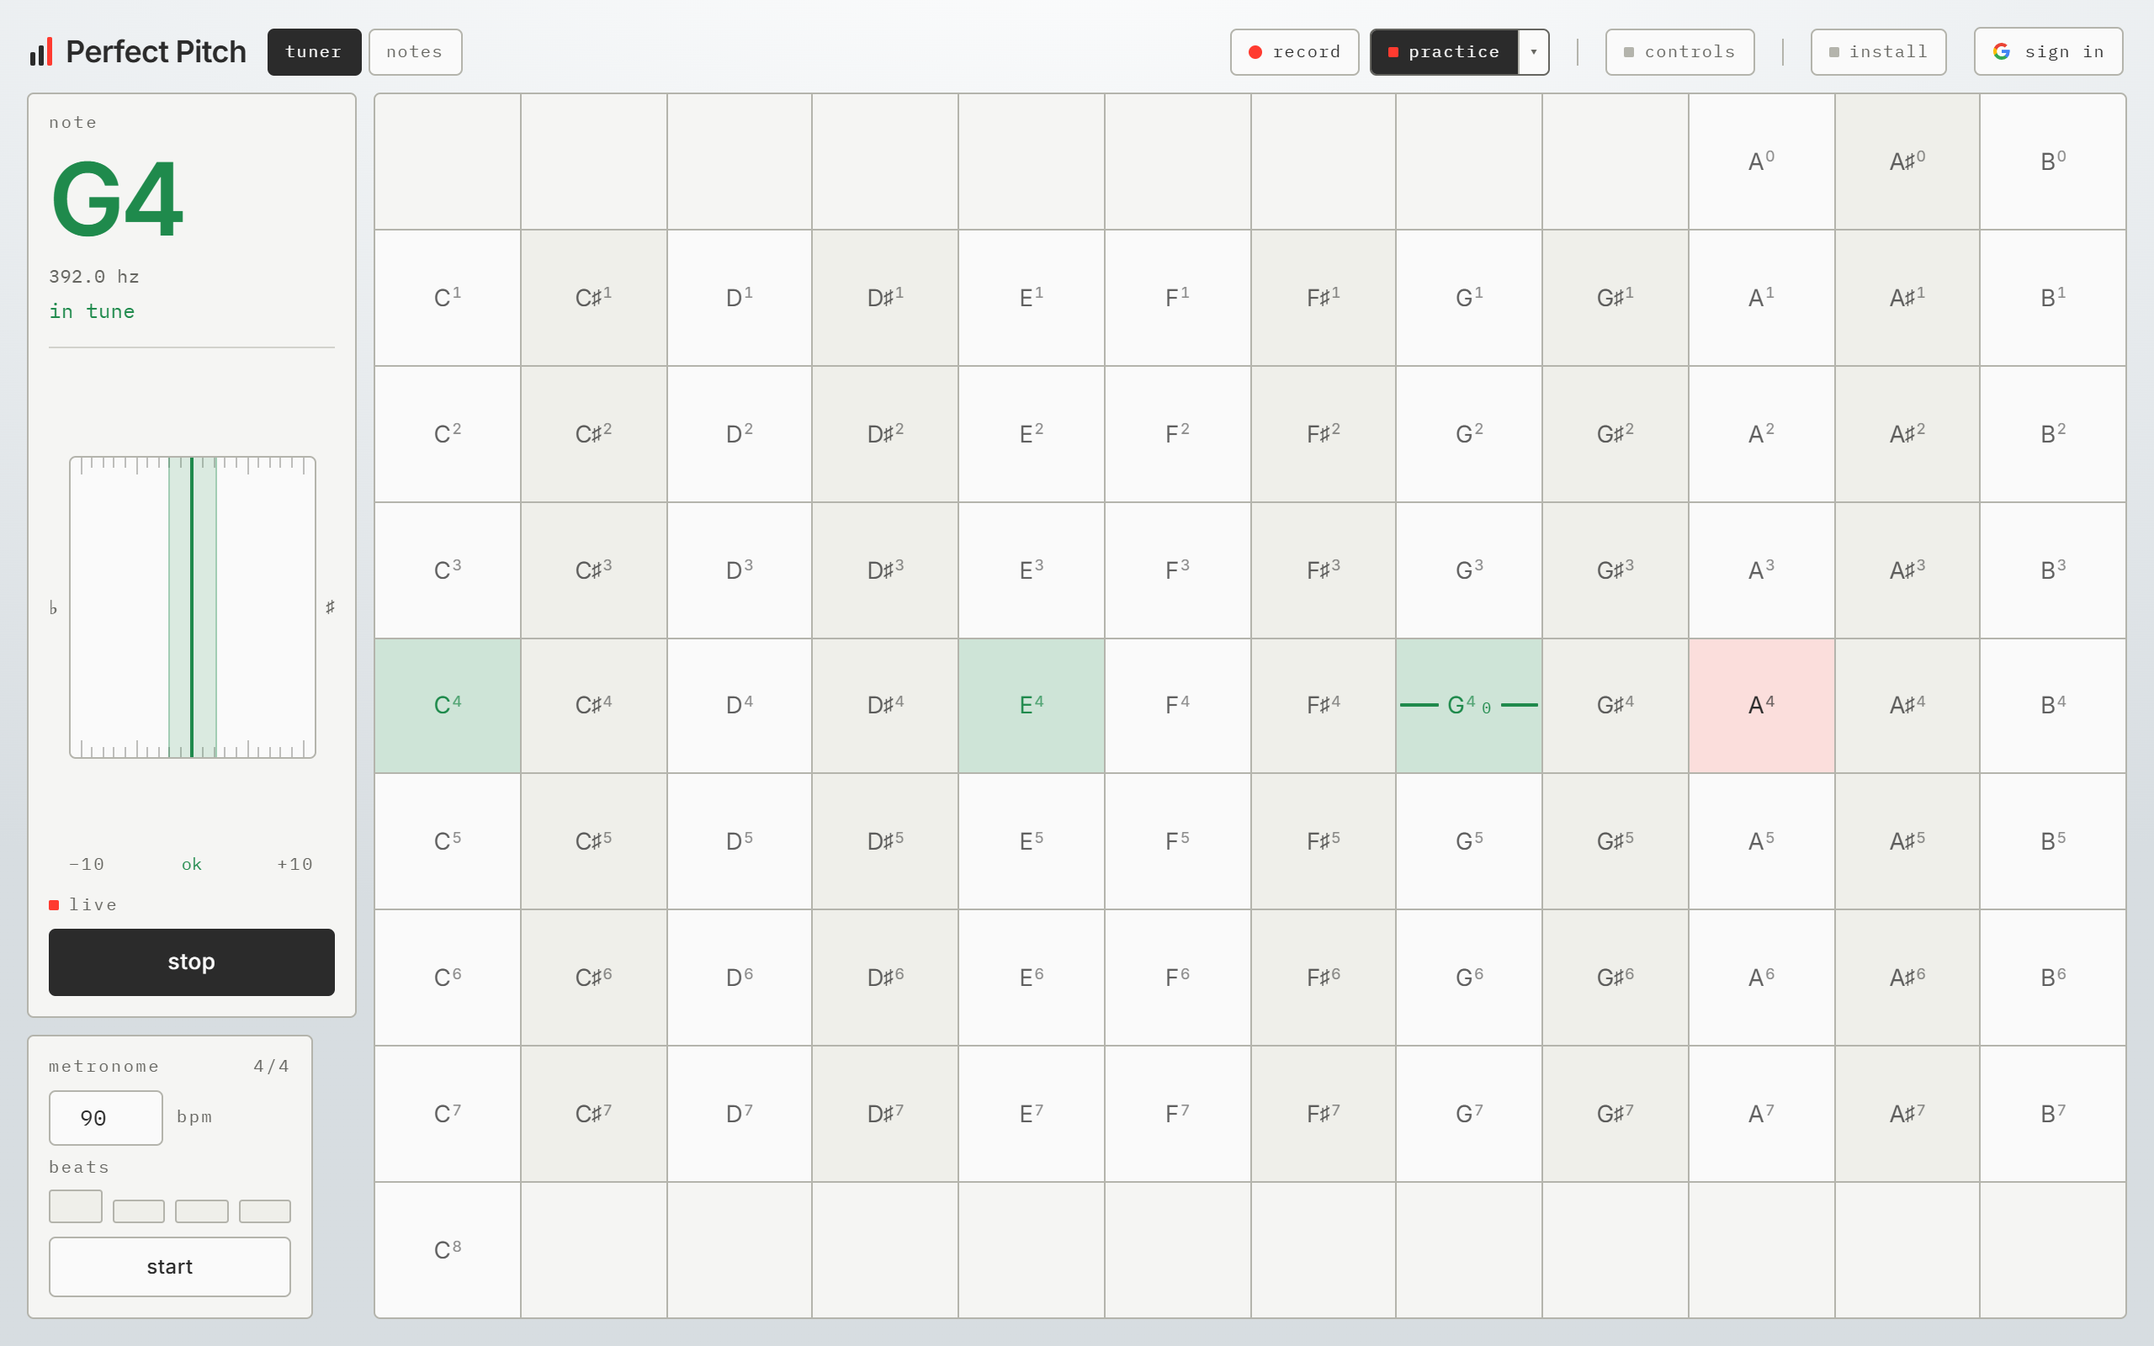
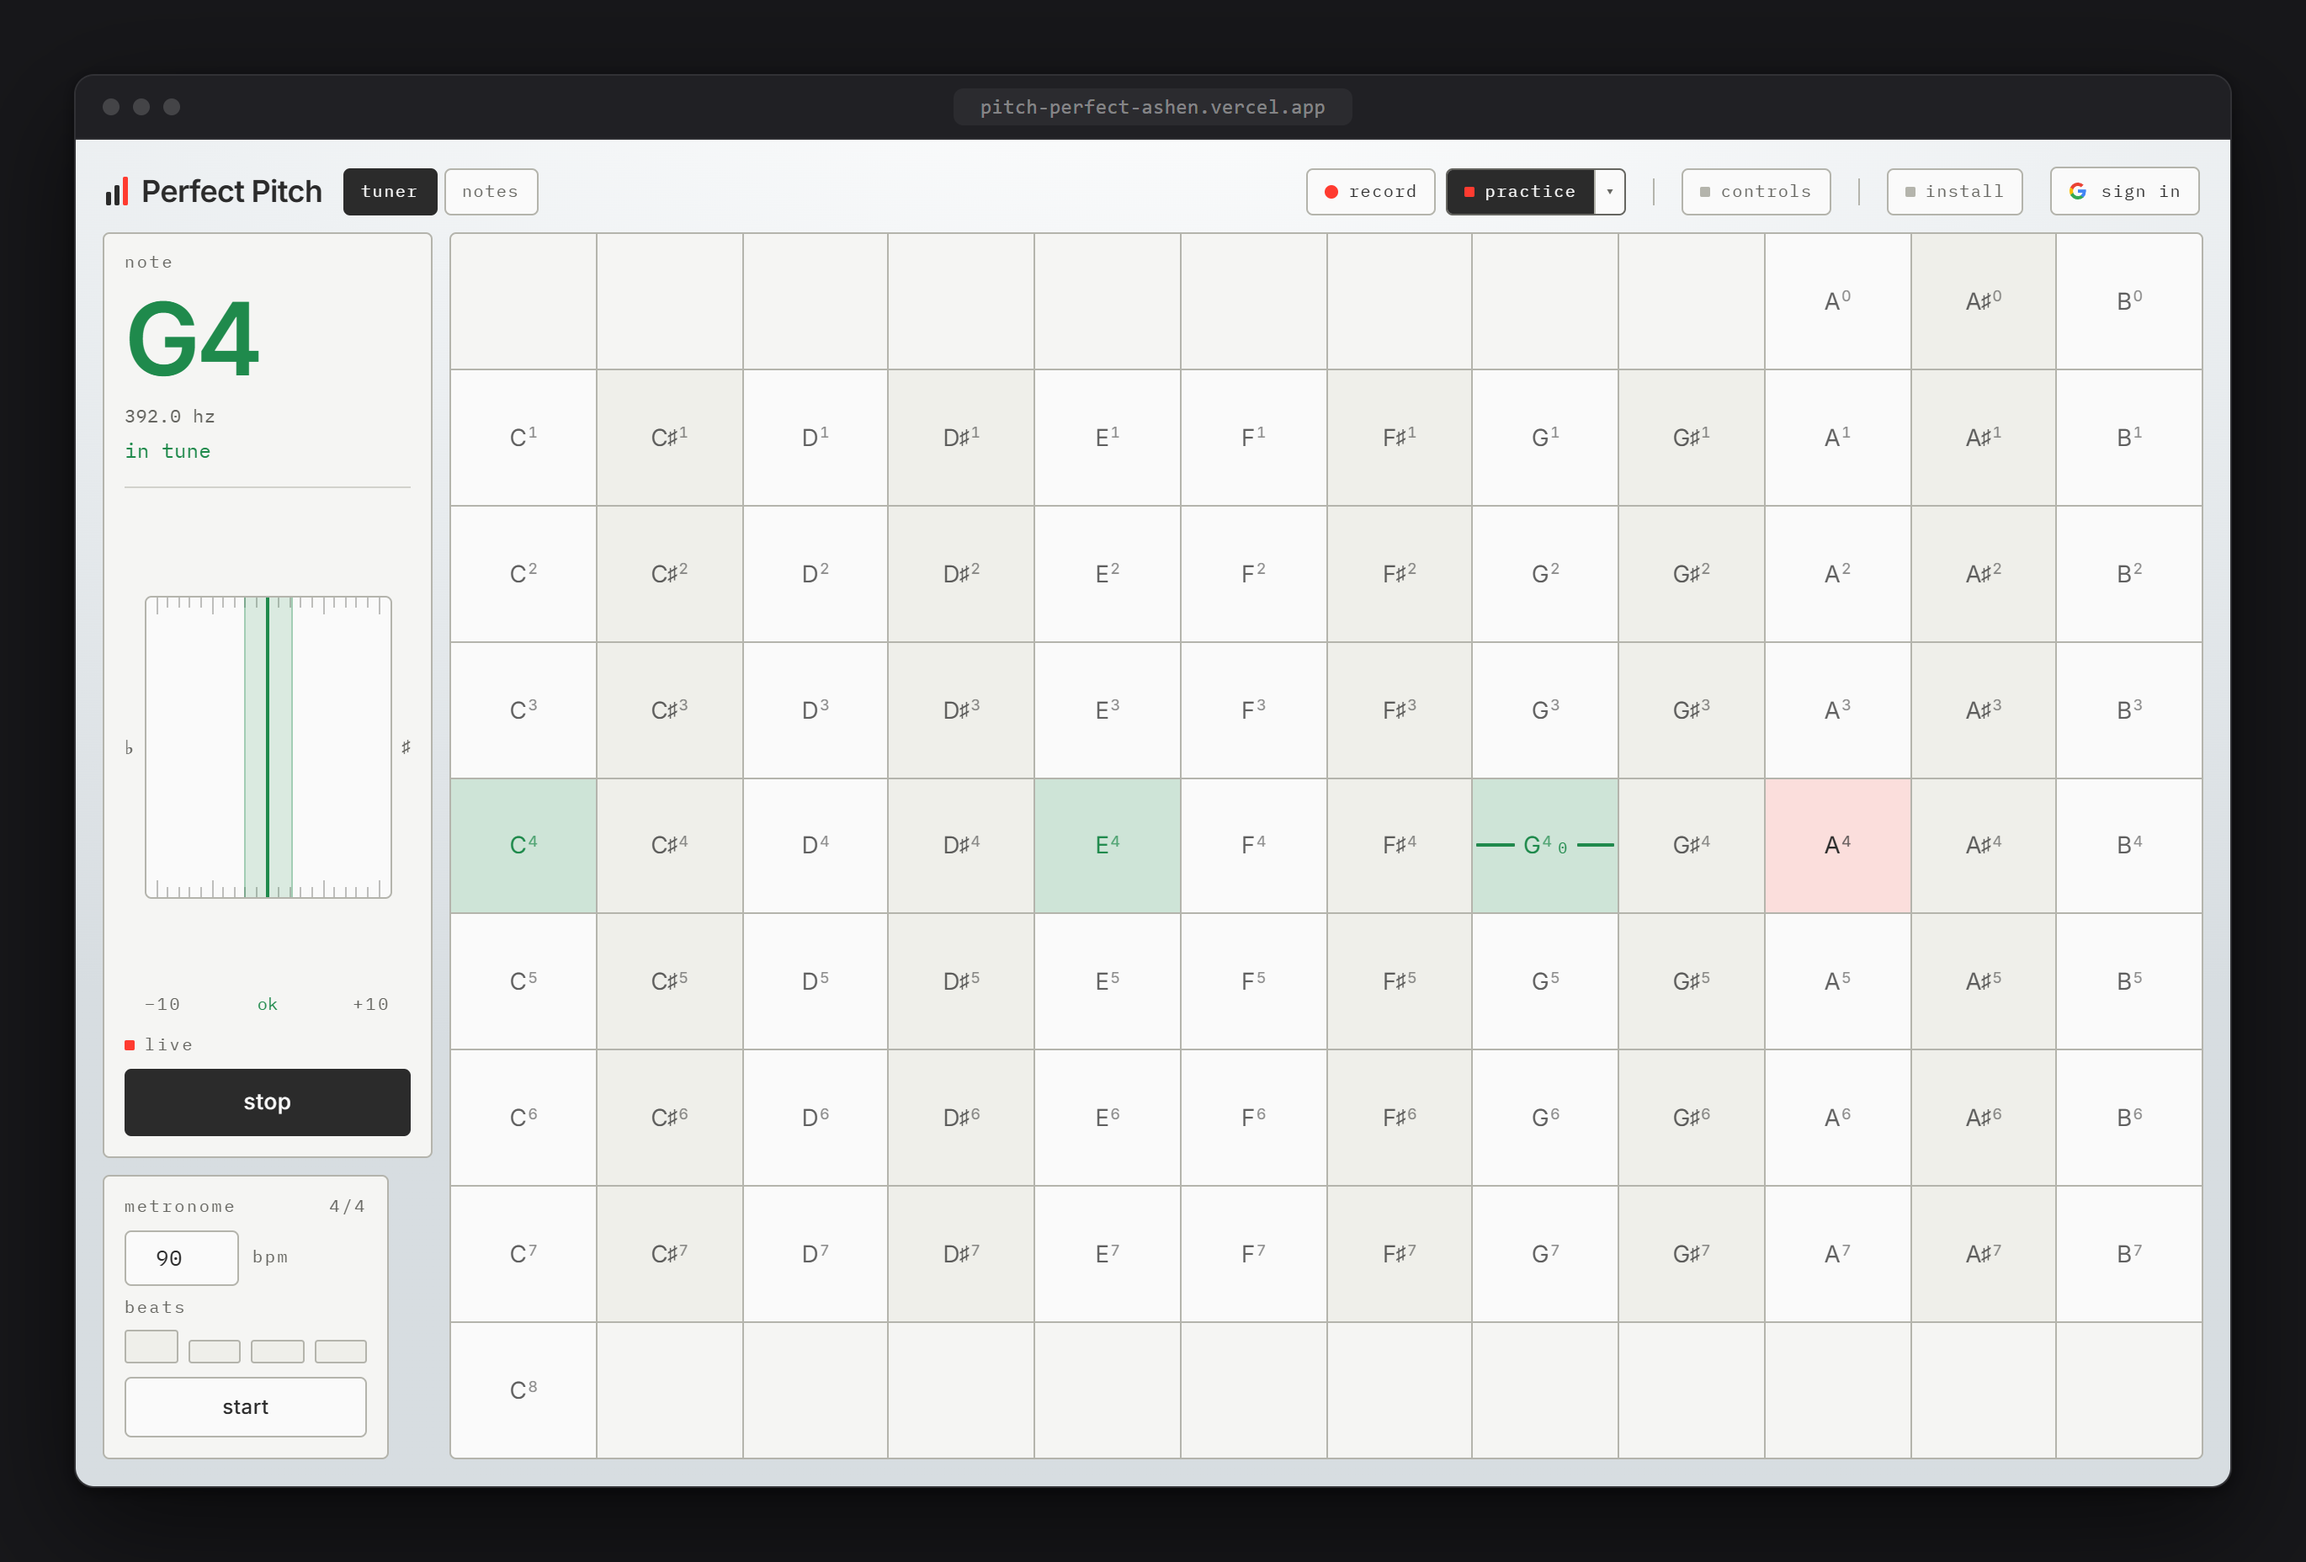
Give the readme a stage (#10)
* docs: give the readme a stage

The story it told was already the right one; what it lacked was a way in
and a way to trust it. There was no product name in text, only in a
banner image, and not one of the six images had alt text — a reader on a
slow connection or a screen reader got nothing at all. It opened on the
argument without ever saying plainly what the thing is.

So: a line that says what it is and who it is for, before the argument
starts. Alt text on every image describing what is in it. Real headers
on both tables, which rendered an empty row. Prerequisites, the
environment file, the security rules, and what each command does — with
the test counts read off an actual run rather than remembered.

The screenshots are now mockups on one stage, its colour sampled from
the hero banner so the whole page shares a surface. It holds up in both
GitHub themes: a product band against the light one, and against the
dark one it dissolves into the page.

Two of them were not telling the truth. The notebook showed an account
called Chicken — an emulator's auto-generated name — over an editor that
was seven-eighths empty, which reads as a broken empty state rather than
a notebook. It is now a page of a real piece with three in the sidebar.
And the phone shot was a squat desktop window under a caption about a
page that turns itself sideways; it is now an actual upright phone with
the interface rotated inside it.
[…]

diff --git a/README.md b/README.md
@@ -1,12 +1,29 @@
-![](docs/screenshots/hero.png)
+![Perfect Pitch — the tuner reading A4 at 440.0 hz, dead centre on a cents meter, under the words "how close you are, not just which note"](docs/screenshots/hero.png)
 
 <div align="center">
 <br>
 
-[**Open the app**](https://pitch-perfect-ashen.vercel.app/) &nbsp;·&nbsp; Installable &nbsp;·&nbsp; Works offline
+**A violin tuner that tells you how close you are — not just which note.**
+
+And a notebook for the pieces you are learning.
+
+<br>
+
+[**Open the app**](https://pitch-perfect-ashen.vercel.app/) &nbsp;·&nbsp; [How it works](#how-it-works) &nbsp;·&nbsp; [Run it](#run-it)
 
 <br>
 </div>
+
+---
+
+<br>
+
+Perfect Pitch is a tuner and a practice notebook for violinists, in one browser tab.
+It shows how far off you are in cents, remembers that across a whole passage, and
+keeps the pieces you are learning where you tune them. It installs to a home screen
+and works with no network.
+
+<br>
 
 ---
 
@@ -22,7 +39,7 @@ A tuner that only names the note will call a bad note correct.
 
 </div>
 
-![](docs/screenshots/same-note.png)
+![Two readouts side by side, both naming the note A4. The left reads 440.0 hz and "in tune" in green; the right reads 437.0 hz and "-12¢ flat" in red](docs/screenshots/same-note.png)
 
 <div align="center">
 <sub><i>The name was never the hard part.</i></sub>
@@ -40,7 +57,7 @@ A tuner that only names the note will call a bad note correct.
 
 </div>
 
-![](docs/screenshots/tuner.png)
+![The tuner: a large A4 readout at 440.0 hz marked in tune, a cents meter beside it, and a bed of 88 keys with A4 lit green](docs/screenshots/tuner.png)
 
 <div align="center">
 <sub><i>Eighty-eight keys, because scordatura moves the range. Metronome, drone,<br>and a reference tone under every key.</i></sub>
@@ -58,7 +75,7 @@ A tuner that only names the note will call a bad note correct.
 
 </div>
 
-![](docs/screenshots/practice.png)
+![The same key bed after a passage, with C4, E4 and G4 shaded green and A4 shaded red](docs/screenshots/practice.png)
 
 <div align="center">
 <sub><i>Green where you were in tune, red where you were not.<br>A passage leaves a map of its own intonation.</i></sub>
@@ -76,7 +93,7 @@ A tuner that only names the note will call a bad note correct.
 
 </div>
 
-![](docs/screenshots/notes.png)
+![The notebook: a piece called Vande Mataram written over seven lines of sargam, a list of saved pieces beside it, and a swara keyboard underneath](docs/screenshots/notes.png)
 
 <div align="center">
 <sub><i>Sargam or Western letters, movable Sa. Then practise against it —<br>a note at a time, or a timed run that scores the whole thing.</i></sub>
@@ -88,13 +105,33 @@ A tuner that only names the note will call a bad note correct.
 <div align="center">
 <br>
 
-<sub>**05** &nbsp; ANYWHERE</sub>
+<sub>**05** &nbsp; FIRST RUN</sub>
+
+### It explains itself, once.
+
+</div>
+
+![The walkthrough running over the tuner: the page dimmed, the listen button ringed in red and left pressable, and a panel reading "2 of 6 — Start here"](docs/screenshots/walkthrough.png)
+
+<div align="center">
+<sub><i>Six steps on the tuner, five in the notebook, offered on a first visit<br>and never again. Each one hands back the control it asks you to press.</i></sub>
+<br><br>
+</div>
+
+---
+
+<div align="center">
+<br>
+
+<sub>**06** &nbsp; ANYWHERE</sub>
 
 ### Turns sideways. Installs.
 
 <br>
 
-<img src="docs/screenshots/phone.png" width="660" alt="">
+<img src="docs/screenshots/phone.png" width="300" alt="A phone held upright, with the whole tuner turned ninety degrees inside it so the full key bed fits">
+
+<br>
 
 <sub><i>Nine octaves will not fit a portrait column, so the page turns itself.<br>Installed, it opens with no network at all.</i></sub>
 
@@ -107,30 +144,52 @@ A tuner that only names the note will call a bad note correct.
 
 ## Run it
 
+[Bun](https://bun.sh) is what the lockfile is for. Google Chrome is needed only for
+the end-to-end tests, which drive a real browser.
+
 ```bash
 bun install
 bun run dev
 ```
 
-Press **listen** and allow the microphone. Notes need Firebase — copy
-`.env.example` to `.env.local`. Without it the tuner still runs; only signing
+Open the app, press **listen**, and allow the microphone. That is the whole tuner —
+it needs no account and no configuration.
+
+The notebook needs Firebase, because pieces are saved to an account and follow you
+between devices. Copy `.env.example` to `.env.local` and fill it in from
+`firebase apps:sdkconfig WEB <appId> --project <projectId>`:
+
+```env
+VITE_FIREBASE_API_KEY=
+VITE_FIREBASE_AUTH_DOMAIN=
+VITE_FIREBASE_PROJECT_ID=
+VITE_FIREBASE_STORAGE_BUCKET=
+VITE_FIREBASE_MESSAGING_SENDER_ID=
+VITE_FIREBASE_APP_ID=
+```
+
+These ship to the browser and are not secrets — access is controlled by the security
+rules below, not by hiding them. Without the file the tuner still runs; only signing
 in is unavailable.
 
 <br>
 
-|                 |                         |
-| --------------- | ----------------------- |
-| `bun run dev`   | dev server              |
-| `bun run build` | typecheck, then build   |
-| `bun run test`  | unit tests              |
-| `bun run e2e`   | Playwright, real Chrome |
-| `bun run lint`  | ESLint                  |
+| Command             | What it does                  |
+| ------------------- | ----------------------------- |
+| `bun run dev`       | dev server                    |
+| `bun run build`     | typecheck, then build         |
+| `bun run test`      | unit tests — 325, in 26 files |
+| `bun run e2e`       | Playwright, real Chrome — 84  |
+| `bun run lint`      | ESLint                        |
+| `bun run typecheck` | TypeScript, no emit           |
+| `bun run format`    | Prettier                      |
 
-<sub>End-to-end tests for notes need `firebase emulators:start`.</sub>
+<sub>The notebook's end-to-end tests sign in for real, so they need
+`firebase emulators:start` first.</sub>
 
 <br>
 
-## How
+## How it works
 
 **Pitch** — one equal-temperament formula, anchored at A4 = 440 Hz.
 
@@ -139,24 +198,43 @@ frequency(midi) = 440 * 2 ** ((midi - 69) / 12)
 ```
 
 **Detection** — the McLeod Pitch Method: the first strong peak of a Normalised
-Square Difference Function, not the tallest. That is what stops a bowed
-string's harmonics reading an octave high. Echo cancellation, noise
-suppression and gain control are all off; each one mangles a sustained tone.
+Square Difference Function, not the tallest. That is what stops a bowed string's
+harmonics reading an octave high. Echo cancellation, noise suppression and gain
+control are all off; each one mangles a sustained tone.
 
 <sub>One note at a time. Double stops waver between the two.</sub>
 
 **Offline** — precache the build, hashed assets cache-first, navigations
-network-first with the cached shell behind them. A Vite plugin stamps the file
-list in at build, so it cannot drift.
+network-first with the cached shell behind them. A Vite plugin stamps the file list
+in at build from what Rollup actually produced, so the worker's list cannot drift
+from the files that exist.
+
+**Storage** — a piece belongs to its owner structurally, nested under their user id
+rather than tagged with it. The rules check the shape of every write too, so a
+compromised client cannot store arbitrary documents or exhaust the quota:
+
+```
+match /users/{uid}/compositions/{compositionId} {
+  allow read, delete: if isOwner(uid);
+  allow create, update: if isOwner(uid) && isWellFormed();
+}
+```
 
 <br>
 
 ## Built with
 
-<sub>VITE · REACT 19 · TYPESCRIPT · TAILWIND 4 · FIREBASE · VITEST · PLAYWRIGHT</sub>
+| Layer     | Technology                             |
+| --------- | -------------------------------------- |
+| Interface | React 19 · React Router 8 · Tailwind 4 |
+| Build     | Vite 8 · TypeScript 6                  |
+| Sound     | Web Audio API, directly                |
+| Account   | Firebase Auth · Firestore              |
+| Offline   | A service worker generated at build    |
+| Tests     | Vitest · Playwright                    |
 
-No audio, charting or PWA library. Detection, synthesis, metronome scheduling
-and the service worker are all first-party.
+No audio, charting or PWA library. Detection, synthesis, metronome scheduling and
+the service worker are all first-party.
 
 ```
 src/
@@ -165,6 +243,24 @@ src/
 ├─ components/   key bed, readout, meter, editor
 ├─ routes/       tuner · notes
 └─ sw.js         offline
+e2e/             Playwright, against a real browser
+docs/
+├─ screenshots/  what is above
+└─ superpowers/  a design doc per feature
+```
+
+<br>
+
+## Contributing
+
+Every feature here starts as a short design doc in
+[`docs/superpowers/specs/`](docs/superpowers/specs/) and ends with tests that would
+fail without it. Both are worth more than the diff.
+
+```bash
+git checkout -b your-branch
+bun run test && bun run typecheck && bun run lint
+bun run e2e                      # firebase emulators:start, for the notes tests
 ```
 
 <br>
@@ -172,6 +268,8 @@ src/
 <div align="center">
 <sub>
 
+Built by [Harshul Rathod](https://github.com/Harshul1484) &nbsp;·&nbsp;
+[Open the app](https://pitch-perfect-ashen.vercel.app/) &nbsp;·&nbsp;
 [Design specs](docs/superpowers/specs/)
 
 </sub>
